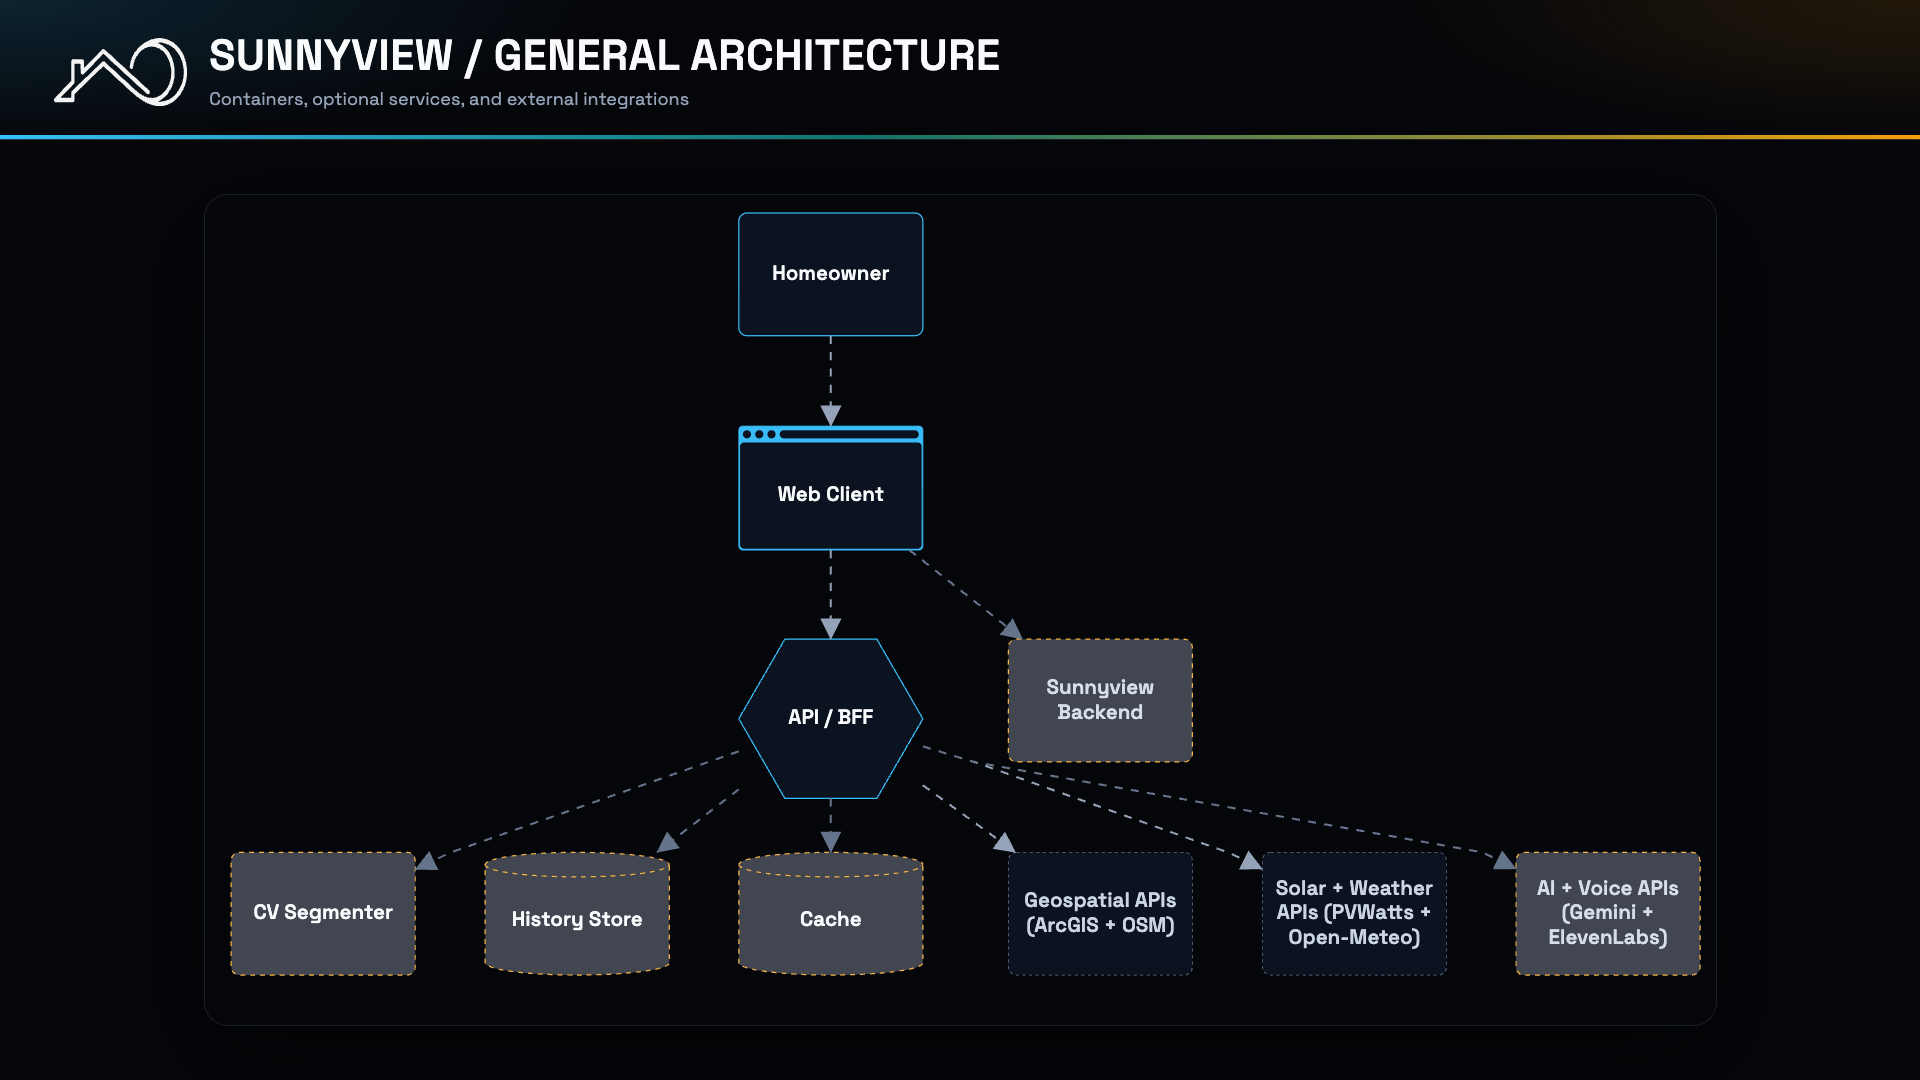
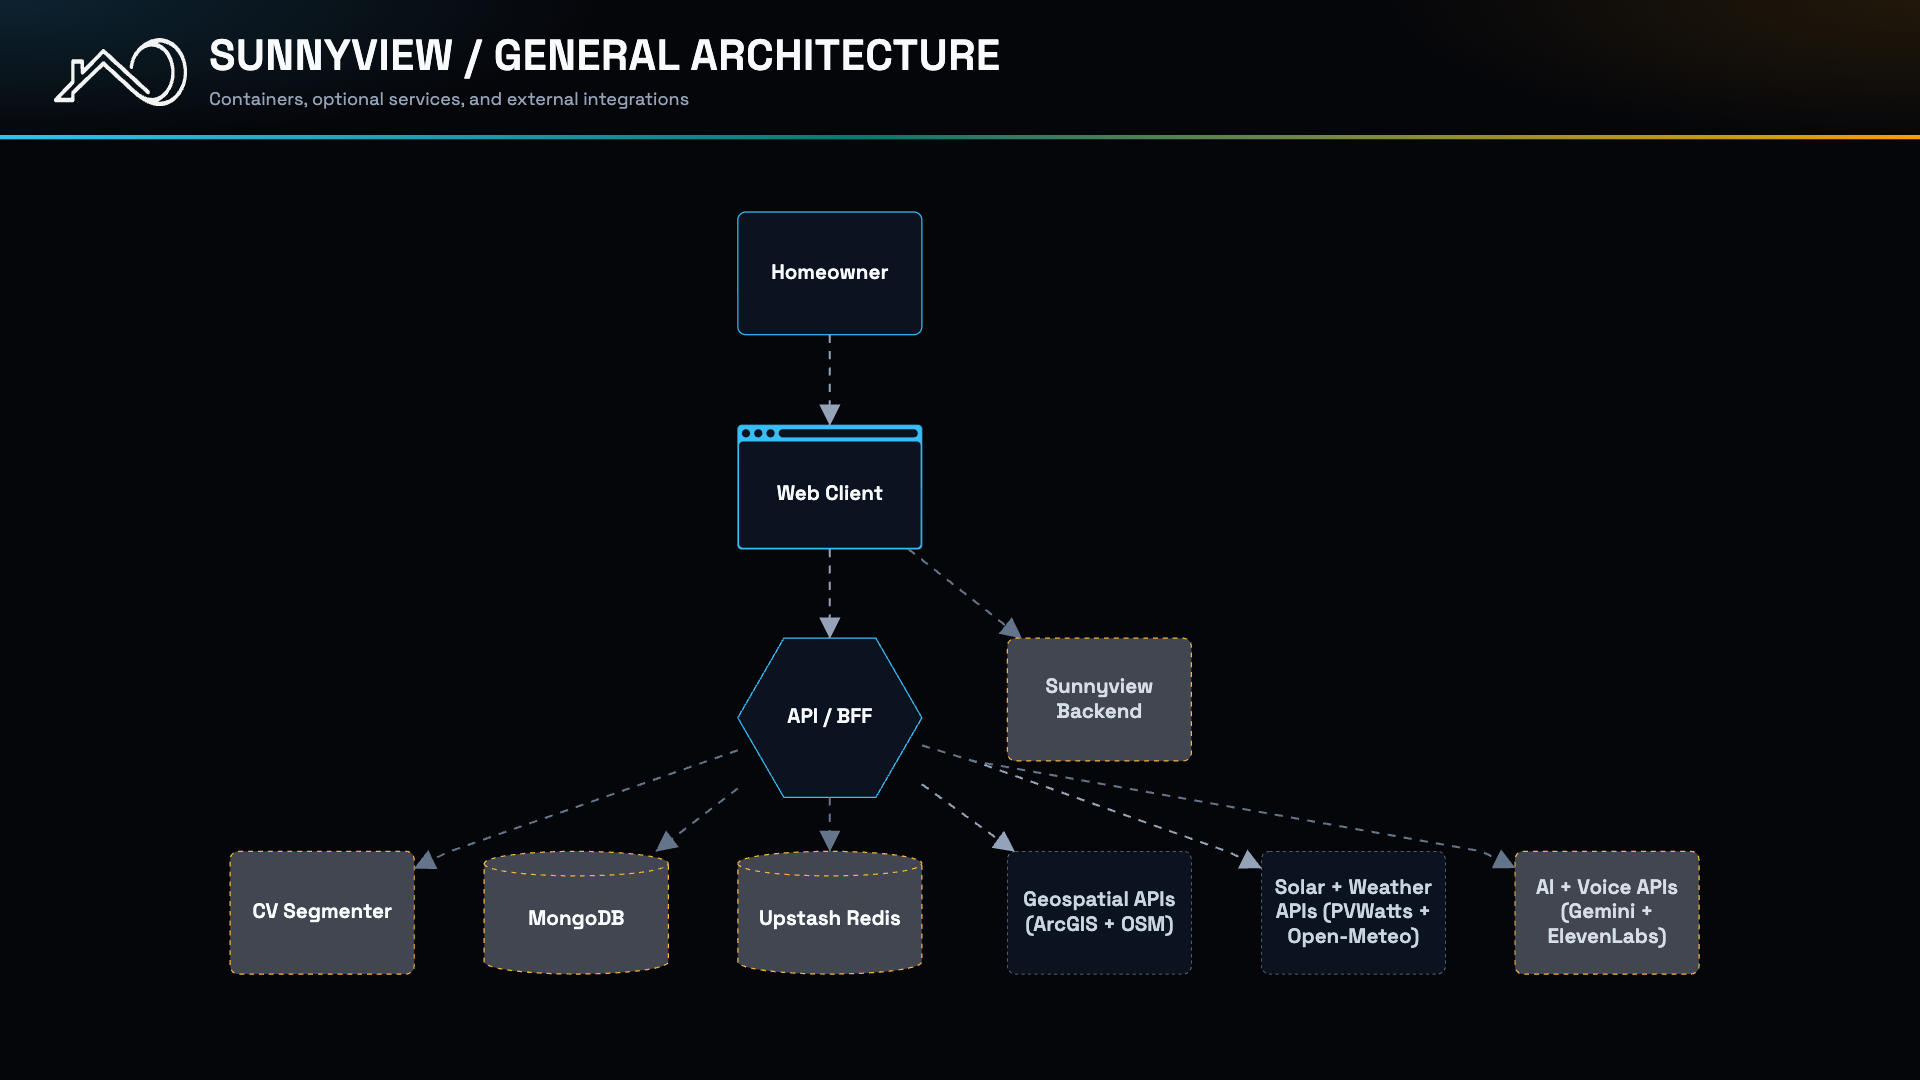
Hide Structurizr frames & adjust pixel effects
Remove/avoid structural boundary boxes in exported SVGs and tweak visual behavior in the pixel grid. Changes:

- components/pixel-grid.tsx: increase ambient cluster base power and reduce sparkle decay so ambient ignitions are stronger and sparkles persist slightly longer.
- structurizr/export-diagrams.mjs: simplify svg sizer styling and add logic to hide Structurizr boundary groups (by class) and a fallback that hides very large dark rectangles acting as frames, reducing visual clutter in README/export images.
- structurizr/workspace.dsl: rename Mongo/Upstash container labels, include them where appropriate, and add element styles for "Boundary:Software System" and "Boundary:Container" to match the dark background (so boundaries render effectively hidden).
- Updated exported diagram PNGs (structurizr/diagrams/*) to reflect the new export styling.

These changes make exported diagrams cleaner for README usage and improve the ambient/particle visuals in the pixel grid.

diff --git a/components/pixel-grid.tsx b/components/pixel-grid.tsx
@@ -145,7 +145,7 @@ export function PixelGrid({
         if (cols <= 0 || rows <= 0) break
         const centerCol = Math.floor(Math.random() * cols)
         const centerRow = Math.floor(Math.random() * rows)
-        const basePower = rand(0.2, 0.44) * intensityScale
+        const basePower = rand(0.26, 0.57) * intensityScale
         igniteAmbientCluster(centerCol, centerRow, basePower)
       }
     }
@@ -277,7 +277,7 @@ export function PixelGrid({
           cell.brightness += (cell.target - cell.brightness) * smoothing
 
           if (sparkleRef.current) {
-            const sparkleDecay = Math.exp(-dt * (0.72 + motionScale * 0.18))
+            const sparkleDecay = Math.exp(-dt * (0.52 + motionScale * 0.13))
             cell.sparkle *= sparkleDecay
             if (cell.sparkle < 0.001) cell.sparkle = 0
           } else {
